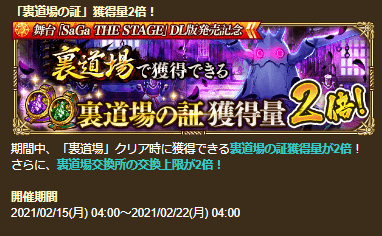
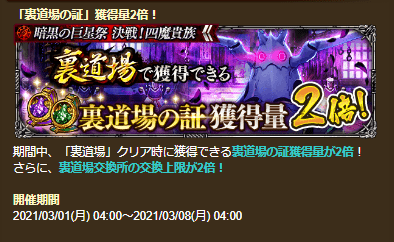
4魔貴族イベント情報追加

diff --git a/contents/housou/20210225_8/namahousou8.html b/contents/housou/20210225_8/namahousou8.html
@@ -1,0 +1,222 @@
+<!DOCTYPE html>
+
+<html lang="ja">
+  <head>
+    <script src="https://ajax.googleapis.com/ajax/libs/jquery/3.4.1/jquery.min.js"></script>
+    <meta charset="UTF-8">
+    <meta http-equiv="Pragma" content="no-cache">
+    <meta http-equiv="cache-control" content="no-cache">
+    <meta http-equiv="expires" content="0">
+    <meta http-equiv="X-UA-Compatible" content="IE=edge">
+    <meta http-equiv="Content-Style-Type" content="text/css" />
+    <meta http-equiv="Content-Script-Type" content="text/javascript" />
+    <meta name="viewport" content="width=device-width, initial-scale=1">
+
+    <!-- twitter投稿用の設定 -->
+    <meta name="twitter:card" content="summary" /> <!--カード種類：summary か summary_large_image-->
+    <meta name="twitter:site" content="@sagamax__" /> <!--ユーザー名-->
+    <meta property="og:url" content="https://taumax-github.github.io/sagamax/poison/poisondamage.html" /> <!--記事のURL-->
+    <meta property="og:title" content="ロマサガRS 公式生放送#7" /> <!--記事のタイトル-->
+    <meta property="og:description" content="『ロマンシング サガ リ・ユニバース』公式生放送#7 2021年1月スペシャルのまとめ" /> <!--記事の要約（ディスクリプション）-->
+    <meta property="og:image" content="https://taumax-github.github.io/sagamax/images/icon_twitter_card.png" /> <!--画像のURL-->
+
+    <link rel="icon"       href="../../../images/favicon.ico">
+    <link rel="stylesheet" href="../../../css/style.css">
+    <link rel="stylesheet" href="../../../css/print.css" media="print">
+    <script src="../../../js/openclose.js"></script>
+    <script src="../../../js/giffer.js"></script>
+
+    <title>ロマサガRS 公式生放送#7</title>
+    
+    <!--[if lt IE 9]>
+    <script src="https://oss.maxcdn.com/html5shiv/3.7.2/html5shiv.min.js"></script>
+    <script src="https://oss.maxcdn.com/respond/1.4.2/respond.min.js"></script>
+    <style>
+      .menu1 a {background-position: -10px -10px;}
+      .menu2 a {background-position: -10px -130px;}
+      .menu3 a {background-position: -10px -250px;}
+      .menu4 a {background-position: -10px -370px;}
+      .menu5 a {background-position: -10px -490px;}
+    </style>
+    <![endif]-->
+    <!-- Global site tag (gtag.js) - Google Analytics -->
+    <script async src="https://www.googletagmanager.com/gtag/js?id=UA-156501005-1"></script>
+    <script>
+      window.dataLayer = window.dataLayer || [];
+      function gtag(){dataLayer.push(arguments);}
+      gtag('js', new Date());
+      gtag('config', 'UA-156501005-1');
+    </script>
+    <script data-ad-client="ca-pub-5924490903263360" async src="https://pagead2.googlesyndication.com/pagead/js/adsbygoogle.js"></script>
+  </head>
+
+<!--PC用（801px以上端末）で表示させるブロック-->
+<header class="pc">
+  <h1 class="logo">
+    <a href="https://taumax-github.github.io/sagamax/">
+      <img src="../../../images/icon_top.png" alt="TOP">
+      <br>
+      <font size="3px">TOP</font>
+    </a>
+  </h1>
+
+  <!--PC用（801px以上端末）メニュー-->
+  <ul class="icon">
+    <li><a href="https://twitter.com/sagamax__" target="_blank"><img src="../../../images/icon_twitter.png" alt="Twitter"></a></li>
+    <li><a href="https://twitter.com/sagamax_bot" target="_blank"><img src="../../../images/icon_twitter_bot.png" alt="Twitter"></a></li>
+    <li><a href="https://www.youtube.com/channel/UCOlWN-yN7NVRILm2GAbFGJw" target="_blank"><img src="../../../images/icon_youtube.png" alt="youtube"></a></li>
+  </ul>
+  <nav>
+    <ul>
+      <li><a href="#movie">生放送動画</a></li>
+      <li><a href="#hurikaeri">振り返り</a></li>
+      <li><a href="#update">アプデ情報</a></li>
+      <li><a href="#event">新イベント</a></li>
+      <li><a href="#info">お知らせ</a></li>
+    </ul>
+  </nav>
+</header><!--/.pc-->
+
+<!--小さな端末用（800px以下端末）で表示させるブロック-->
+<header class="sh">
+  <!--小さな端末用（800px以下端末）メニュー-->
+  <div id="menubar-s" align="center">
+    <nav>
+      <ul>
+        <li><a href="#movie">生放送動画</a></li>
+        <li><a href="#hurikaeri">振り返り</a></li>
+        <li><a href="#update">アプデ情報</a></li>
+        <li><a href="#event">新イベント</a></li>
+        <li><a href="#info">お知らせ</a></li>
+      </ul>
+    </nav>
+    <h1 class="logo">
+      <a href="https://taumax-github.github.io/sagamax/">
+        <img src="../../../images/icon_top.png" alt="TOP">
+        <br>
+        <font size="3px">TOP</font>
+      </a>
+    </h1>
+    <ul class="icon">
+      <li><a href="https://twitter.com/sagamax__" target="_blank"><img src="../../../images/icon_twitter.png" alt="Twitter"></a></li>
+      <li><a href="https://twitter.com/sagamax_bot" target="_blank"><img src="../../../images/icon_twitter_bot.png" alt="Twitter"></a></li>
+      <li><a href="https://www.youtube.com/channel/UCOlWN-yN7NVRILm2GAbFGJw" target="_blank"><img src="../../../images/icon_youtube.png" alt="youtube"></a></li>
+    </ul>
+  </div><!--/#menubar-s-->
+</header><!--/.sh-->
+
+<body class="defaultbody">
+  <div id="container">
+  <div id="contents">
+  <div id="main">
+    <span id="pagetop"></span>
+    <section class="box">
+      <!-- tweetボタン -->
+      <a href="https://twitter.com/share?ref_src=twsrc%5Etfw" class="twitter-share-button" data-show-count="false">Tweet</a><script async src="https://platform.twitter.com/widgets.js" charset="utf-8"></script><br>
+
+      <span id="pagetop"></span>
+      <h2 class="title">ロマサガRS 公式生放送#7 まとめ</h2>
+
+        <span id="movie"></span>
+        <h3 class="title">生放送動画</h3>
+        <iframe width="560" height="600" src="https://www.youtube.com/embed/kGMeecZgSIg" frameborder="0" allow="accelerometer; autoplay; clipboard-write; encrypted-media; gyroscope; picture-in-picture" allowfullscreen></iframe>
+        <br><br>
+
+        <span id="hurikaeri"></span>
+        <h3 class="title">2周年を振り返って</h3>
+        <img src="img/00-min.png"></img><br><br>
+        <h4 class="title">迷いの世界塔(第3回)到達人数</h4>
+        <img src="img/01-min.png"></img><br><br>
+        <p>最高は198階</p>
+
+        <span id="update"></span>
+        <h4 class="title">ダンスホール関連</h4>
+        <img src="img/04-min.png"></img><br><br>
+        <img src="img/05-min.png"></img><br><br>
+        <img src="img/06-min.png"></img><br><br>
+
+
+        <h3 class="title">ギルドスタンプ</h3>
+        <img src="img/07-min.png"></img><br><br>
+
+        <h3 class="title">アプデ情報</h3>
+        <img src="img/08-min.png"></img><br><br>
+
+        <h3 class="title">イベント情報</h3>
+        <img src="img/09-min.png"></img><br><br>
+        <img src="img/10-min.png"></img><br><br>
+
+        <h3 class="title">実装してほしいキャラ</h3>
+        <img src="img/11-min.png"></img><br><br>
+
+        <h3 class="title">次回以降のアプデ情報</h3>
+        <h4 class="title">実装済みのアプデ</h4>
+        <img src="img/12-min.png"></img><br><br>
+        <img src="img/13-min.png"></img><br><br>
+        <img src="img/14-min.png"></img><br><br>
+        <img src="img/15-min.png"></img><br><br>
+        <img src="img/16-min.png"></img><br><br>
+        <img src="img/17-min.png"></img><br><br>
+        <img src="img/18-min.png"></img><br><br>
+
+        <h4 class="title">次回以降のアプデ情報</h4>
+        <img src="img/19-min.png"></img><br><br>
+        <img src="img/20-min.png"></img><br><br>
+        <img src="img/21-min.png"></img><br><br>
+        <img src="img/22-min.png"></img><br><br>
+
+
+        <h4 class="title">検討中のアプデ情報</h4>
+        <img src="img/24-min.png"></img><br><br>
+
+        <span id="event"></span>
+        <h3 class="title">新イベント＆キャンペーン情報</h3>
+        <img src="img/25-min.png"></img><br><br>
+        <img src="img/26-min.png"></img><br><br>
+        <img src="img/27-min.png"></img><br><br>
+        <img src="img/28-min.png"></img><br><br>
+        <img src="img/29-min.png"></img><br><br>
+        <img src="img/30-min.png"></img><br><br>
+        <img src="img/31-min.png"></img><br><br>
+        <img src="img/32-min.png"></img><br><br>
+        <img src="img/33-min.png"></img><br><br>
+        <img src="img/34-min.png"></img><br><br>
+        <br><br>
+
+
+        <span id="info"></span>
+        <h3 class="title">お知らせコーナー</h3>
+        <img src="img/35-min.png"></img><br><br>
+        <img src="img/36-min.png"></img><br><br>
+        <img src="img/37-min.png"></img><br><br>
+        <img src="img/38-min.png"></img><br><br>
+        <img src="img/39-min.png"></img><br><br>
+        <img src="img/40-min.png"></img><br><br>
+        <img src="img/41-min.png"></img><br><br>
+        <img src="img/42-min.png"></img><br><br>
+        <img src="img/43-min.png"></img><br><br>
+    </section><!-- section class="box" -->
+
+    <footer>
+      <span class="pr"><a href="https://template-party.com/" target="_blank">《Web Design:Template-Party》</a></span>
+    </footer>
+    
+
+  </div><!--/#main-->
+  </div><!--/#contents-->
+  </div><!--/#container-->
+</body>
+
+  <!--ページの上部に戻る「↑」ボタン-->
+  <p class="nav-fix-pos-pagetop"><a href="#pagetop">↑</a></p>
+
+  <!--メニュー開閉ボタン-->
+  <div id="menubar_hdr" class="close"></div>
+
+  <!--メニューの開閉処理条件設定　800px以下-->
+  <script>
+    if (OCwindowWidth() <= 800) {
+      open_close("menubar_hdr", "menubar-s");
+    }
+  </script>
+</html>
